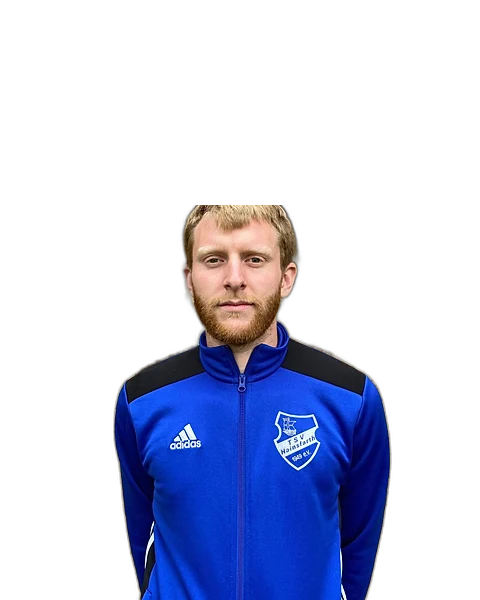
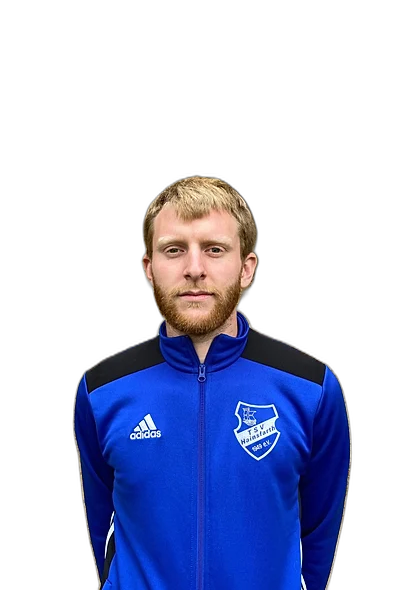
Refresh Florian and Milos cutout assets

Changed region(s): [[0.18, 0.2746, 0.9, 1.0]]

diff --git a/script.js b/script.js
@@ -815,7 +815,7 @@ if (squadData?.teams) {
       return null;
     }
 
-    return `images/kader/cutouts/${token}.png?v=20260317a`;
+    return `images/kader/cutouts/${token}.png?v=20260317b`;
   };
   const fallbackImageAttributes = (value) => {
     const remoteImage = resolveImageUrl(value);

diff --git a/kader.html b/kader.html
@@ -124,6 +124,6 @@
     </footer>
   </div>
   <script src="team-data.js?v=20260316c"></script>
-  <script src="script.js?v=20260317a"></script>
+  <script src="script.js?v=20260317b"></script>
 </body>
 </html>

diff --git a/datenschutz.html b/datenschutz.html
@@ -126,6 +126,6 @@
       </div>
     </footer>
   </div>
-  <script src="script.js?v=20260317a"></script>
+  <script src="script.js?v=20260317b"></script>
 </body>
 </html>

diff --git a/impressum.html b/impressum.html
@@ -103,6 +103,6 @@
       </div>
     </footer>
   </div>
-  <script src="script.js?v=20260317a"></script>
+  <script src="script.js?v=20260317b"></script>
 </body>
 </html>

diff --git a/kontakt.html b/kontakt.html
@@ -133,6 +133,6 @@
       </div>
     </footer>
   </div>
-  <script src="script.js?v=20260317a"></script>
+  <script src="script.js?v=20260317b"></script>
 </body>
 </html>

diff --git a/sportangebot.html b/sportangebot.html
@@ -130,6 +130,6 @@
       </div>
     </footer>
   </div>
-  <script src="script.js?v=20260317a"></script>
+  <script src="script.js?v=20260317b"></script>
 </body>
 </html>

diff --git a/verein.html b/verein.html
@@ -177,6 +177,6 @@
       </div>
     </footer>
   </div>
-  <script src="script.js?v=20260317a"></script>
+  <script src="script.js?v=20260317b"></script>
 </body>
 </html>

diff --git a/fanshop.html b/fanshop.html
@@ -67,6 +67,6 @@
       </div>
     </footer>
   </div>
-  <script src="script.js?v=20260317a"></script>
+  <script src="script.js?v=20260317b"></script>
 </body>
 </html>

diff --git a/index.html b/index.html
@@ -432,6 +432,6 @@
       );
     }
   </script>
-  <script src="script.js?v=20260317a"></script>
+  <script src="script.js?v=20260317b"></script>
 </body>
 </html>
